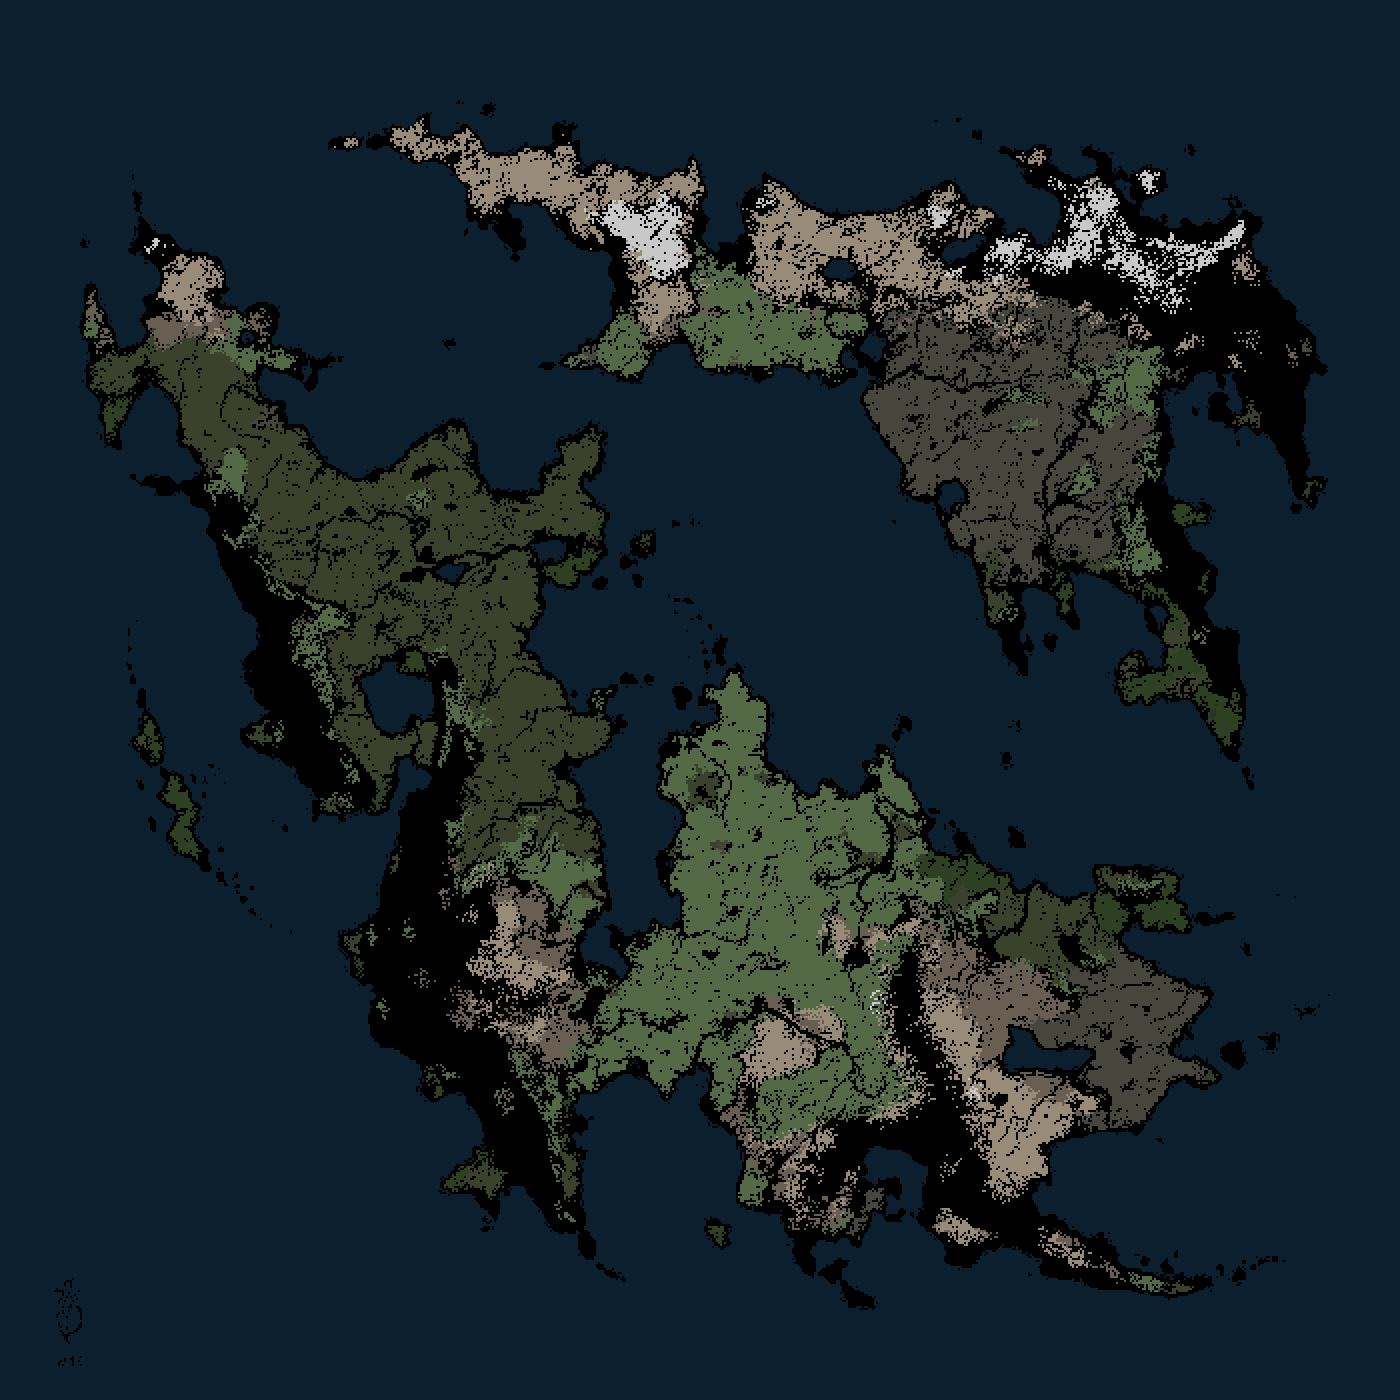
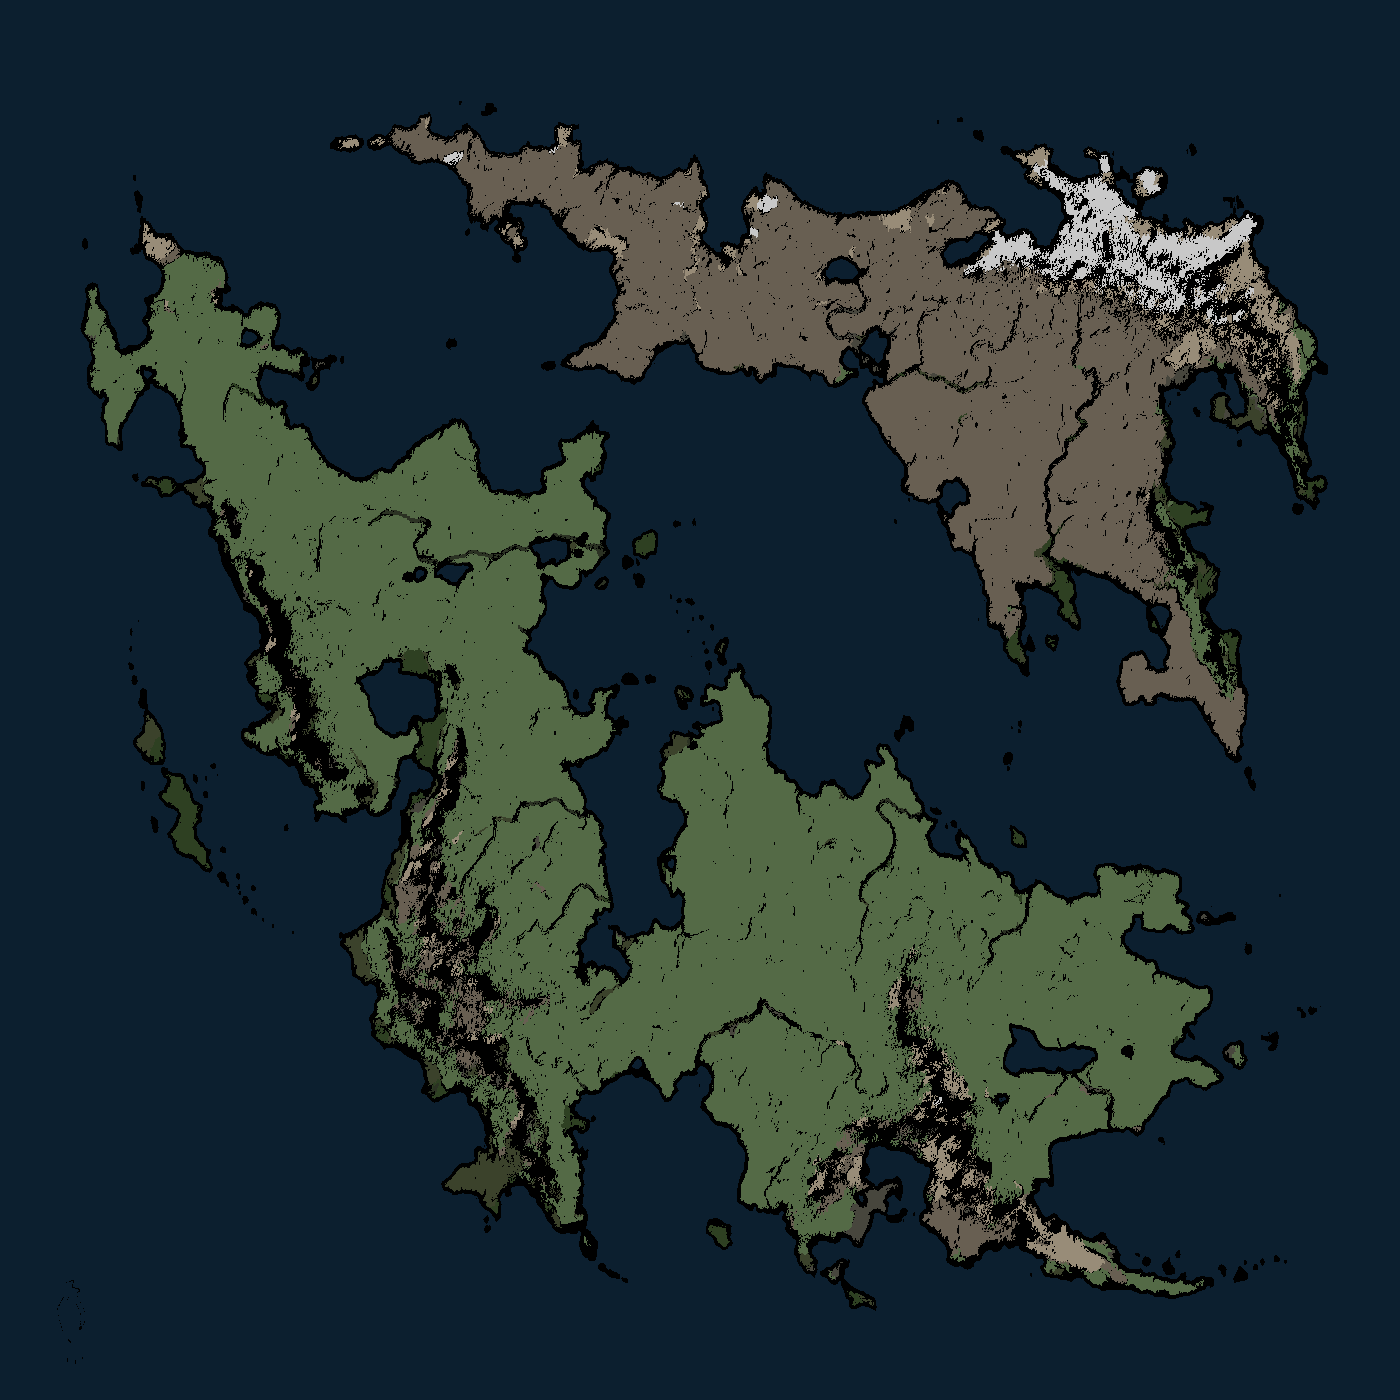
amelioration dbscan

diff --git a/SAE_IL/src/Main.java b/SAE_IL/src/Main.java
@@ -48,18 +48,19 @@ public class Main {
         String[] images = {"Planete 1", "Planete 2", "Planete 3", "Planete 4", "Planete 5"};
         String[] normes = {"Redmean", "CIELAB", "Oeil"};
         int flou = 4;
-        int[][] paramSCAN = {{20, 9}, {20, 9}, {20, 8}};
+        int[][] paramSCAN = {{20, 10}, {20, 10}, {20, 8}};
         String ext = "jpg";
         NormeCouleurs[] normes_couleurs = {new NormeRedmean(), new NormeCIELAB(), new NormeOeil()};
-        for(int i = 0; i < normes.length; i++){
-            for(String img : images){
-                int[] dim = image.getDim("C:/Users/user/Desktop/Cours/SAE-Planet/SAE_IL/SAE_IL/img/", img + "." + ext);
-                image.flouter("C:/Users/user/Desktop/Cours/SAE-Planet/SAE_IL/SAE_IL/img/", img + "." + ext, "Planete_Floue","png", flou, new Flou_gaussien());
+        for(String img : images){
+            int[] dim = image.getDim("C:/Users/user/Desktop/Cours/SAE-Planet/SAE_IL/SAE_IL/img/", img + "." + ext);
+            image.flouter("C:/Users/user/Desktop/Cours/SAE-Planet/SAE_IL/SAE_IL/img/", img + "." + ext, "Planete_Floue","png", flou, new Flou_gaussien());
+            for(int i = 0; i < normes.length; i++){
                 DBScan scan = new DBScan(paramSCAN[i][0],paramSCAN[i][1], normes_couleurs[i],dim[0]);
                 int[][] param = image.image_to_param("C:/Users/user/Desktop/Cours/SAE-Planet/SAE_IL/SAE_IL/img/", "Planete_Floue.png");
                 int[] clusters = scan.algoClust(param);
                 String[] biomes = image.convertCluster(param, clusters);
                 image.imagebiome(param, biomes, clusters, "C:/Users/user/Desktop/Cours/SAE-Planet/SAE_IL/SAE_IL/img/dbscan/"+normes[i]+"/", img+" DBSCAN " + normes[i], "png", dim[0], dim[1]);
+                System.out.println("Image " + img + " avec la norme " + normes[i] + " a été traitée");
             }
         }
         /*DBScan scan = new DBScan(3, 5);

diff --git a/SAE_IL/src/DBScan.java b/SAE_IL/src/DBScan.java
@@ -14,7 +14,7 @@ public class DBScan implements InterfaceClustering {
     public DBScan(int minPts, double eps, NormeCouleurs norme, int width) {
         this.minPts = minPts;
         this.eps = eps;
-        this.area = (int) eps;
+        this.area = (int) Math.ceil(eps);
         this.norme = norme;
         this.width = width;
     }
